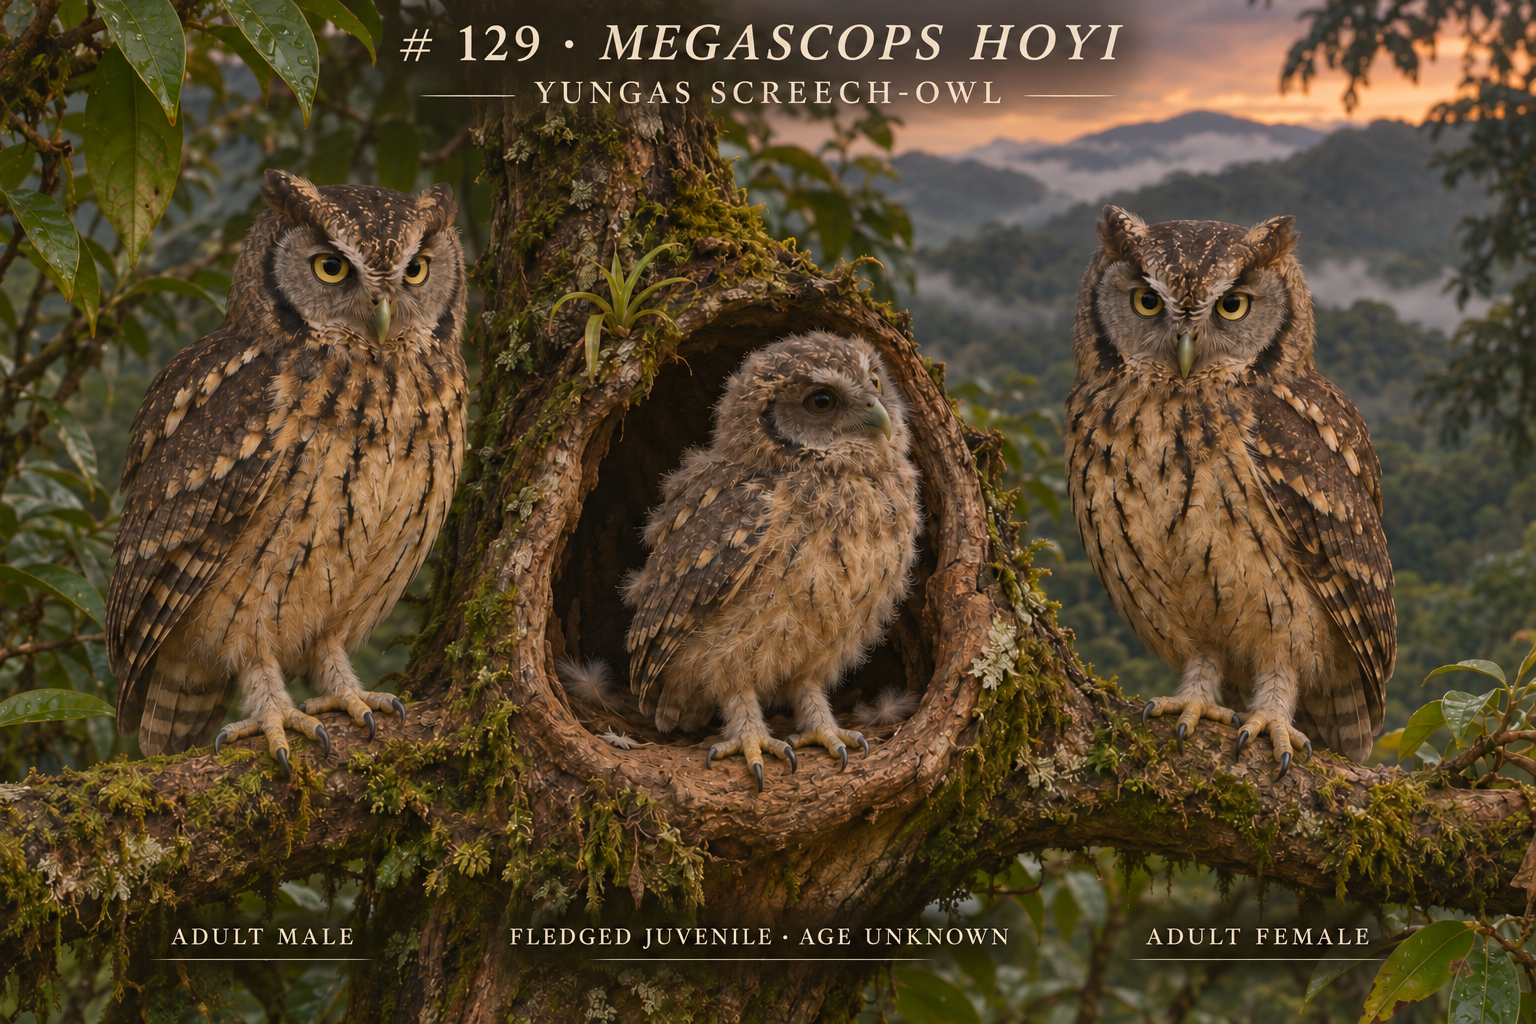
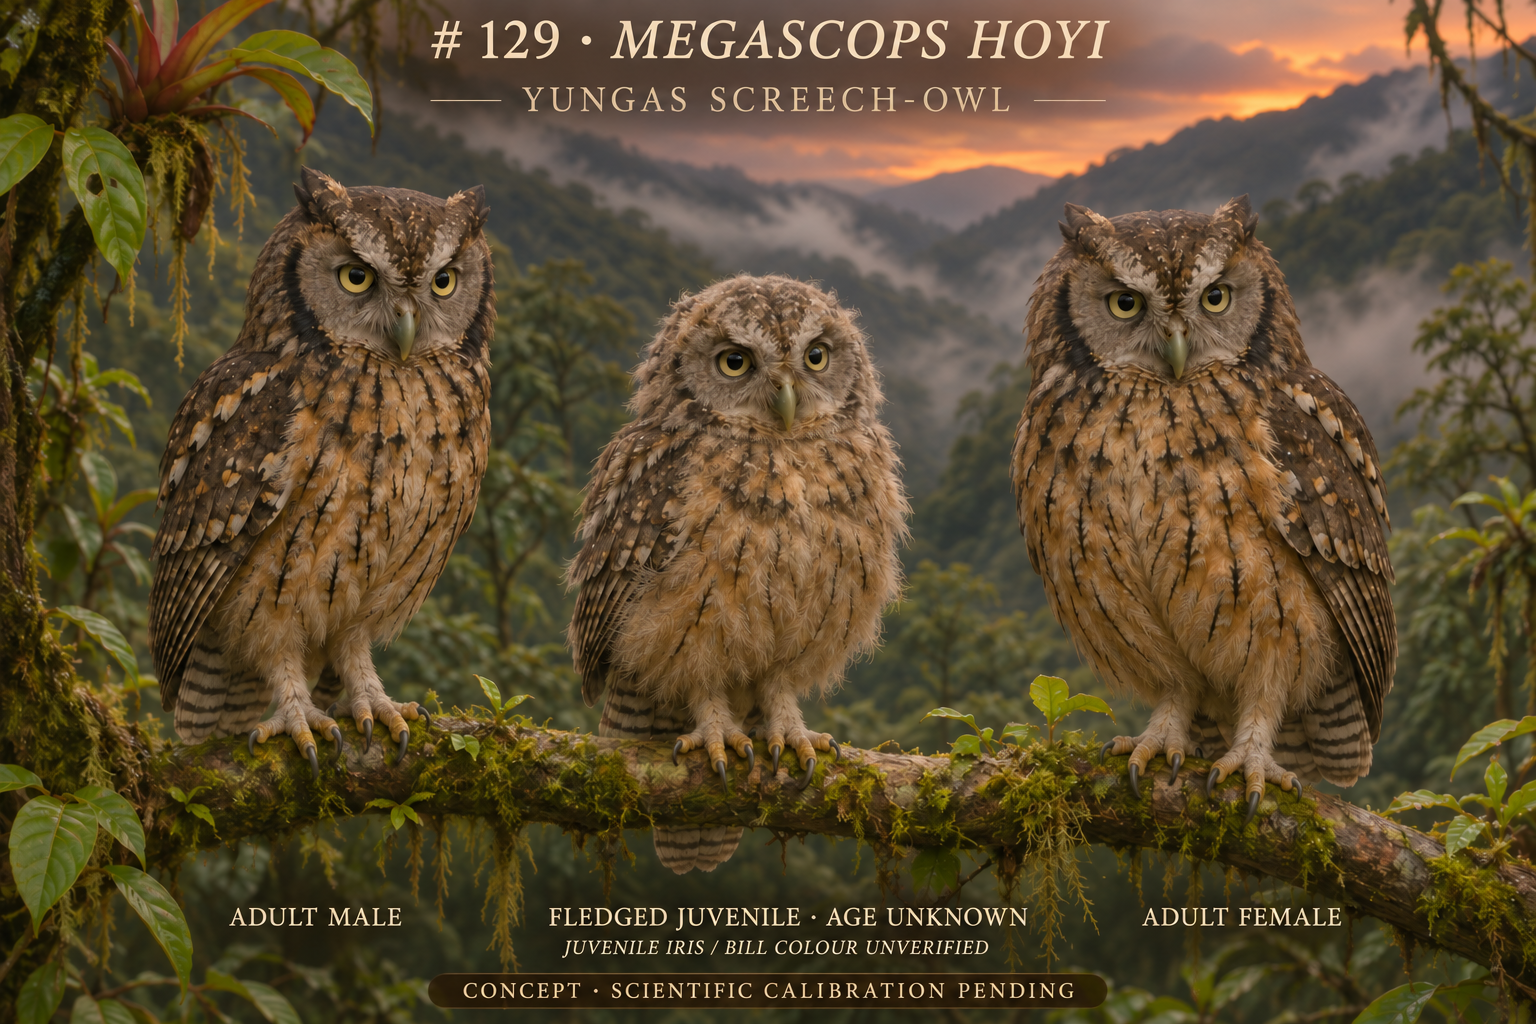
owl-pet: 20261123T1640Z-cycle-2 ARCHIVED

diff --git a/owl-pet/production/LESSONS.md b/owl-pet/production/LESSONS.md
@@ -168,3 +168,8 @@ undefined
 
 Problem: modern secondary phrase 'juvenile similaradult' would erase directly described barred down and dark juvenile eyes. Evidence: Hartert1898p126. Applied: primary-stage colour/barring and dark eyes in prompt; viewedresult preserves them. This validates visual application only. Adult#117/#141 relatedplates not automatically affected; their juvenile source mustbe checked independently. No globaltransfer of this species' iris chronology.
 
+
+
+## 20261123T1640Z-cycle-2 Megascops hoyi
+
+Problem: a researchedconcept cantravelwithoutsidecar andreadascalibratedbiologywhennoimagefooter. Evidence: actualv4lackedstatus; researchsayssciencefalseandyoungbarepartscalibrationunknown. Change: visiblependingfooter+specificunknownnote, preservingevidencedstage. Review: bothactuallyreadonv5, notablanketqualityclaim. Backcheckcontactsheetfound#215–218lackfooter; queueannotationrevisiononly, do not countasnewscienceornewspecies. #220/#221alreadyhavefooter—do notregenerateforit. Sourcebodyreuse isnotnewliteraturediscovery.

diff --git a/owl-pet/production/runs/20261123T1640Z-cycle-2.md b/owl-pet/production/runs/20261123T1640Z-cycle-2.md
@@ -16,3 +16,7 @@ Built-in edit 2026-11-23T16:53:18.078Z to 2026-11-23T16:53:54.400Z; fullPNG 2484
 
 2026-11-23T16:54:33.079Z REVIEWED
 Full+nativecrop viewed; no anatomy/plumage drift requiringcorrection; annotation1, sciencefalse.
+
+
+2026-11-23T16:54:43.861Z ARCHIVED
+OriginalPNG 2484838bytes SHA256fb50c11a2a2157124b52c7276330726e69a8c7b80e13c6e8b7068b7374027c7e; generation 2026-11-23T16:53:18.078Z → 2026-11-23T16:53:54.400Z; edits1; conceptpass limited. Immutable readback pending.
